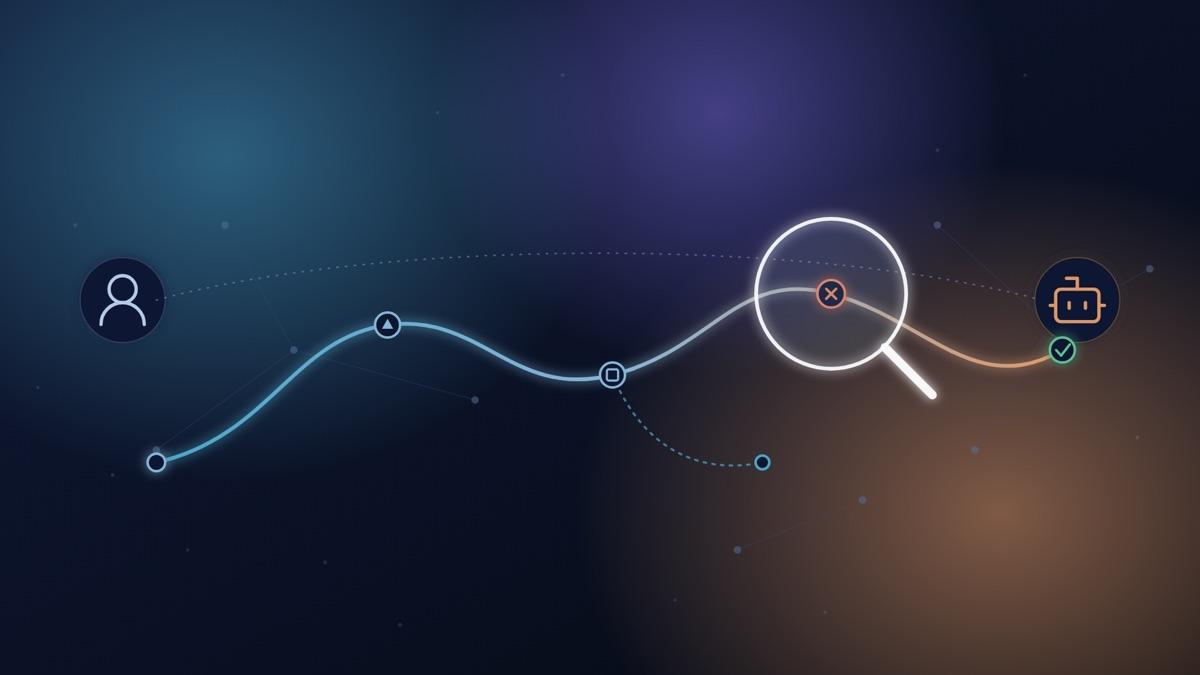
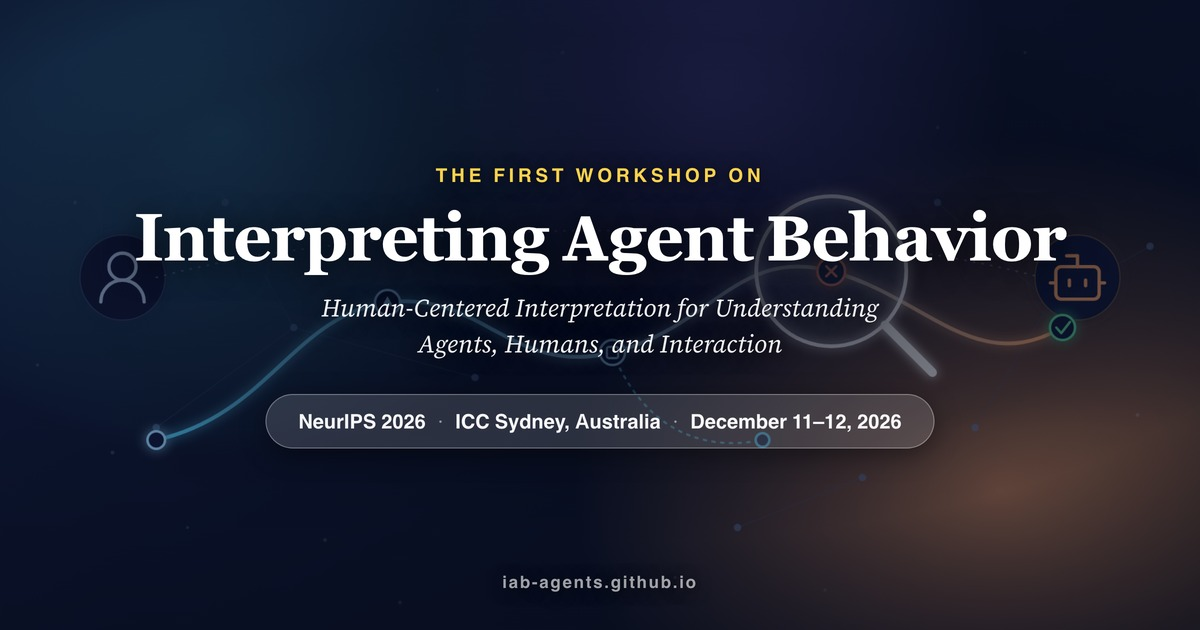
Give the social share image a title
The Open Graph image was the bare hero artwork with no text, so link
previews in Slack, X, and LinkedIn showed only a dark gradient.

Rebuild it at 1200x630 (the canonical OG ratio) from the full-resolution
hero art, with the same wording and typography as the site hero: the
eyebrow, the workshop title, the subtitle, a venue pill, and the domain.
Lighten the scrim so the trajectory artwork still reads behind the text.

Point og:image and twitter:image at og-image.jpg?v=2 so Slack, Facebook,
and LinkedIn re-scrape instead of serving the cached old image, and add
og:image:type/width/height, image alt text, and og:site_name.

Claude-Session: https://claude.ai/code/session_01KiWKZ9gfhA3yT3AnUnJxvs

diff --git a/index.html b/index.html
@@ -21,14 +21,26 @@
       property="og:description"
       content="The first NeurIPS 2026 workshop on Interpreting Agent Behavior. Sydney, December 11–12, 2026."
     />
-    <meta property="og:image" content="https://iab-agents.github.io/og-image.jpg" />
+    <meta property="og:image" content="https://iab-agents.github.io/og-image.jpg?v=2" />
+    <meta property="og:image:type" content="image/jpeg" />
+    <meta property="og:image:width" content="1200" />
+    <meta property="og:image:height" content="630" />
+    <meta
+      property="og:image:alt"
+      content="The First Workshop on Interpreting Agent Behavior. NeurIPS 2026, ICC Sydney, Australia, December 11-12, 2026."
+    />
+    <meta property="og:site_name" content="IAB @ NeurIPS 2026" />
     <meta name="twitter:card" content="summary_large_image" />
     <meta name="twitter:title" content="IAB — Interpreting Agent Behavior | NeurIPS 2026 Workshop" />
     <meta
       name="twitter:description"
       content="The first NeurIPS 2026 workshop on Interpreting Agent Behavior. Sydney, December 11–12, 2026."
     />
-    <meta name="twitter:image" content="https://iab-agents.github.io/og-image.jpg" />
+    <meta name="twitter:image" content="https://iab-agents.github.io/og-image.jpg?v=2" />
+    <meta
+      name="twitter:image:alt"
+      content="The First Workshop on Interpreting Agent Behavior. NeurIPS 2026, ICC Sydney, Australia, December 11-12, 2026."
+    />
 
     <link rel="icon" type="image/svg+xml" href="./img/iab-icon.svg" />
     <link rel="icon" type="image/png" href="./img/iab-icon.png" />
@@ -54,7 +66,7 @@
           "name": "Sydney, Australia"
         },
         "url": "https://iab-agents.github.io/",
-        "image": "https://iab-agents.github.io/og-image.jpg",
+        "image": "https://iab-agents.github.io/og-image.jpg?v=2",
         "superEvent": {
           "@type": "Event",
           "name": "NeurIPS 2026"
